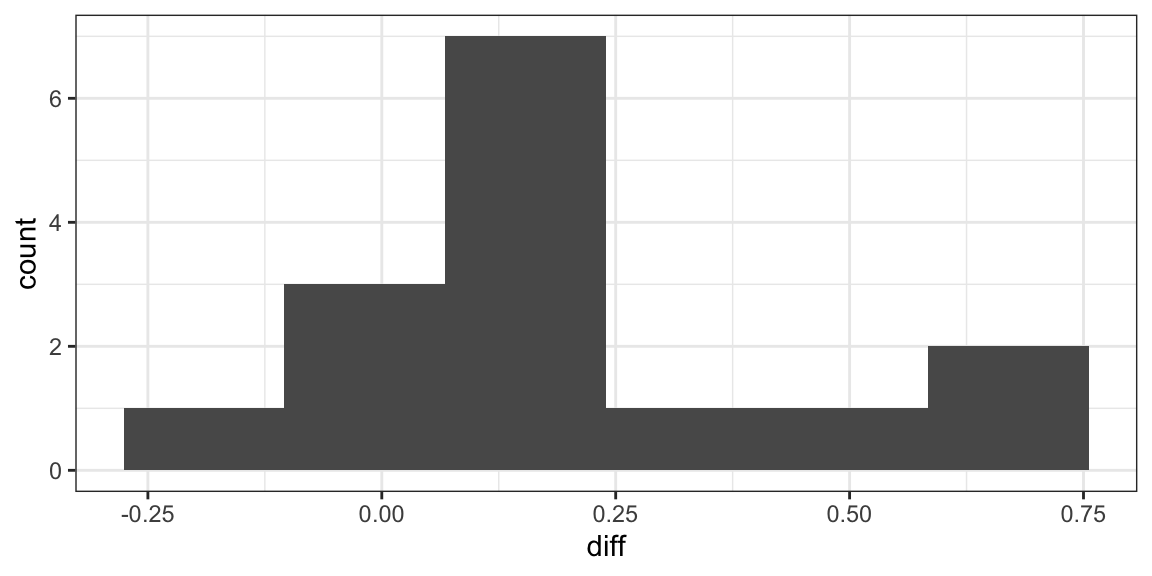
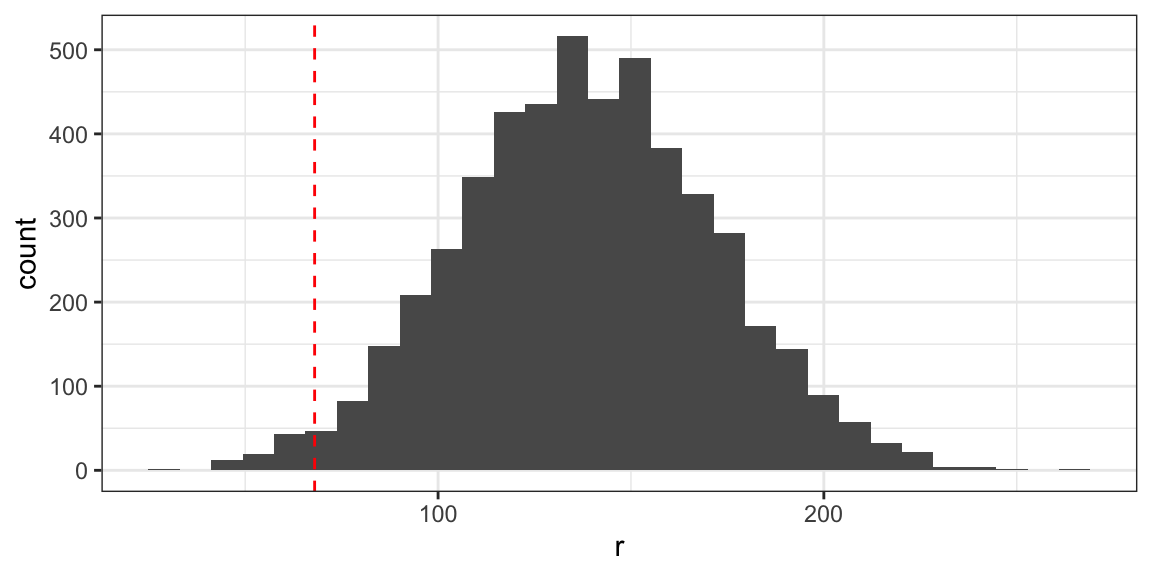
finish ch 4

diff --git a/docs/06_ch4/06_ch4.html b/docs/06_ch4/06_ch4.html
@@ -7,7 +7,7 @@
 <meta name="viewport" content="width=device-width, initial-scale=1.0, user-scalable=yes">
 
 <meta name="author" content="David Gerard">
-<meta name="dcterms.date" content="2026-07-08">
+<meta name="dcterms.date" content="2026-07-09">
 
 <title>Non-parametric Alternatives to t-tools – Stat 302: Intermediate Statistics</title>
 <style>
@@ -217,6 +217,7 @@ window.Quarto = {
   <ul class="collapse">
   <li><a href="#case-study-1" id="toc-case-study-1" class="nav-link" data-scroll-target="#case-study-1">Case Study</a></li>
   <li><a href="#main-idea-1" id="toc-main-idea-1" class="nav-link" data-scroll-target="#main-idea-1">Main idea:</a></li>
+  <li><a href="#permutation-distribution" id="toc-permutation-distribution" class="nav-link" data-scroll-target="#permutation-distribution">Permutation Distribution</a></li>
   <li><a href="#wilcoxon-signed-rank-test-in-r" id="toc-wilcoxon-signed-rank-test-in-r" class="nav-link" data-scroll-target="#wilcoxon-signed-rank-test-in-r">Wilcoxon signed-rank test in R</a></li>
   <li><a href="#when-symmetry-is-violated" id="toc-when-symmetry-is-violated" class="nav-link" data-scroll-target="#when-symmetry-is-violated">When symmetry is violated</a></li>
   <li><a href="#sign-test" id="toc-sign-test" class="nav-link" data-scroll-target="#sign-test">Sign test</a></li>
@@ -246,7 +247,7 @@ window.Quarto = {
     <div>
     <div class="quarto-title-meta-heading">Published</div>
     <div class="quarto-title-meta-contents">
-      <p class="date">July 8, 2026</p>
+      <p class="date">July 9, 2026</p>
     </div>
   </div>
   
@@ -339,7 +340,10 @@ $ Censored  &lt;dbl&gt; 0, 0, 0, 0, 0, 0, 0, 0, 0, 0, 0, 0, 0, 0, 0, 0, 0, 0, 0,
 <ul>
 <li>Use when normality is violated</li>
 <li>Can use on Ordinal Data</li>
-<li>Can use with censored data, when the censored values can all be designated as “last place” (as in the learning case study).</li>
+<li>Can use with censored data, when the censored values can all be designated as “last place” (as in the learning case study).
+<ul>
+<li>For more complicated censoring, need more complicated methods.</li>
+</ul></li>
 </ul></li>
 <li><p><strong>Ordinal Data</strong>: Data where the order is known, but numeric values don’t have any inherent meaning.</p>
 <ul>
@@ -642,7 +646,8 @@ Z = \frac{40.5 - 35}{\sqrt{43.84}} = 0.83
 <section id="exact-approach" class="level2">
 <h2 class="anchored" data-anchor-id="exact-approach">Exact Approach</h2>
 <ul>
-<li><p>If <span class="math inline">\(n\)</span> is small, or there are very many ties, then an exact approach is possible by using the randomization distribution as the null distribution.</p>
+<li><p>If <span class="math inline">\(n\)</span> is small, or there are very many ties, then you shouldn’t use the normal approximation.</p></li>
+<li><p>An exact approach is possible by using the randomization distribution as the null distribution.</p>
 <ul>
 <li>Just like in Chapter 2.</li>
 </ul></li>
@@ -656,20 +661,15 @@ Z = \frac{40.5 - 35}{\sqrt{43.84}} = 0.83
 <li><p>Here is one iteration of generating the randomization distribution</p>
 <div class="cell" data-layout-align="center">
 <div class="code-copy-outer-scaffold"><div class="sourceCode cell-code" id="cb21"><pre class="sourceCode r code-with-copy"><code class="sourceCode r"><span id="cb21-1"><a href="#cb21-1" aria-hidden="true" tabindex="-1"></a>graph <span class="sc">|&gt;</span></span>
-<span id="cb21-2"><a href="#cb21-2" aria-hidden="true" tabindex="-1"></a>  <span class="fu">mutate</span>(<span class="at">shuffled_treatment =</span> <span class="fu">sample</span>(Treatment)) <span class="ot">-&gt;</span></span>
-<span id="cb21-3"><a href="#cb21-3" aria-hidden="true" tabindex="-1"></a>  graph</span>
-<span id="cb21-4"><a href="#cb21-4" aria-hidden="true" tabindex="-1"></a><span class="fu">glimpse</span>(graph)</span></code></pre></div><button title="Copy to Clipboard" class="code-copy-button"><i class="bi"></i></button></div>
+<span id="cb21-2"><a href="#cb21-2" aria-hidden="true" tabindex="-1"></a>  <span class="fu">mutate</span>(<span class="at">shuffled_treatment =</span> <span class="fu">sample</span>(Treatment)) <span class="sc">|&gt;</span> <span class="co"># Shuffle labels</span></span>
+<span id="cb21-3"><a href="#cb21-3" aria-hidden="true" tabindex="-1"></a>  <span class="fu">mutate</span>(<span class="at">rank =</span> <span class="fu">rank</span>(Time)) <span class="sc">|&gt;</span> <span class="co"># Rank all values</span></span>
+<span id="cb21-4"><a href="#cb21-4" aria-hidden="true" tabindex="-1"></a>  <span class="fu">filter</span>(shuffled_treatment <span class="sc">==</span> <span class="st">"Modified"</span>) <span class="sc">|&gt;</span> <span class="co"># Get just shuffled modified observations</span></span>
+<span id="cb21-5"><a href="#cb21-5" aria-hidden="true" tabindex="-1"></a>  <span class="fu">summarize</span>(<span class="at">R =</span> <span class="fu">sum</span>(rank)) <span class="co"># Sum the ranks</span></span></code></pre></div><button title="Copy to Clipboard" class="code-copy-button"><i class="bi"></i></button></div>
 <div class="cell-output cell-output-stdout">
-<pre><code>Rows: 28
-Columns: 4
-$ Time               &lt;dbl&gt; 68, 70, 73, 75, 77, 80, 80, 132, 148, 155, 183, 197…
-$ Treatment          &lt;chr&gt; "Modified", "Modified", "Modified", "Modified", "Mo…
-$ Censored           &lt;dbl&gt; 0, 0, 0, 0, 0, 0, 0, 0, 0, 0, 0, 0, 0, 0, 0, 0, 0, …
-$ shuffled_treatment &lt;chr&gt; "Modified", "Modified", "Conventional", "Modified",…</code></pre>
-</div>
-<div class="code-copy-outer-scaffold"><div class="sourceCode cell-code" id="cb23"><pre class="sourceCode r code-with-copy"><code class="sourceCode r"><span id="cb23-1"><a href="#cb23-1" aria-hidden="true" tabindex="-1"></a><span class="fu">sum</span>(<span class="fu">rank</span>(graph<span class="sc">$</span>Time)[graph<span class="sc">$</span>shuffled_treatment <span class="sc">==</span> <span class="st">"Modified"</span>])</span></code></pre></div><button title="Copy to Clipboard" class="code-copy-button"><i class="bi"></i></button></div>
-<div class="cell-output cell-output-stdout">
-<pre><code>[1] 196.5</code></pre>
+<pre><code># A tibble: 1 × 1
+      R
+  &lt;dbl&gt;
+1  196.</code></pre>
 </div>
 </div></li>
 <li><p>We can do this many times to get this randomization distribution</p>
@@ -684,8 +684,8 @@ $ shuffled_treatment &lt;chr&gt; "Modified", "Modified", "Conventional", "Modifi
 </div></li>
 <li><p>The default in R is to use an exact approach for small sample sizes, but you can always force it to be exact.</p>
 <div class="cell" data-layout-align="center">
-<div class="code-copy-outer-scaffold"><div class="sourceCode cell-code" id="cb25"><pre class="sourceCode r code-with-copy"><code class="sourceCode r"><span id="cb25-1"><a href="#cb25-1" aria-hidden="true" tabindex="-1"></a><span class="fu">wilcox.test</span>(Time <span class="sc">~</span> Treatment, <span class="at">data =</span> graph, <span class="at">exact =</span> <span class="cn">TRUE</span>) <span class="sc">|&gt;</span></span>
-<span id="cb25-2"><a href="#cb25-2" aria-hidden="true" tabindex="-1"></a>  <span class="fu">tidy</span>()</span></code></pre></div><button title="Copy to Clipboard" class="code-copy-button"><i class="bi"></i></button></div>
+<div class="code-copy-outer-scaffold"><div class="sourceCode cell-code" id="cb23"><pre class="sourceCode r code-with-copy"><code class="sourceCode r"><span id="cb23-1"><a href="#cb23-1" aria-hidden="true" tabindex="-1"></a><span class="fu">wilcox.test</span>(Time <span class="sc">~</span> Treatment, <span class="at">data =</span> graph, <span class="at">exact =</span> <span class="cn">TRUE</span>) <span class="sc">|&gt;</span></span>
+<span id="cb23-2"><a href="#cb23-2" aria-hidden="true" tabindex="-1"></a>  <span class="fu">tidy</span>()</span></code></pre></div><button title="Copy to Clipboard" class="code-copy-button"><i class="bi"></i></button></div>
 <div class="cell-output cell-output-stdout">
 <pre><code># A tibble: 1 × 4
   statistic p.value method                       alternative
@@ -751,8 +751,8 @@ $ shuffled_treatment &lt;chr&gt; "Modified", "Modified", "Conventional", "Modifi
 </ul></li>
 <li><p>R can do this automatically.</p>
 <div class="cell" data-layout-align="center">
-<div class="code-copy-outer-scaffold"><div class="sourceCode cell-code" id="cb27"><pre class="sourceCode r code-with-copy"><code class="sourceCode r"><span id="cb27-1"><a href="#cb27-1" aria-hidden="true" tabindex="-1"></a><span class="fu">wilcox.test</span>(Time <span class="sc">~</span> Treatment, <span class="at">data =</span> graph, <span class="at">exact =</span> <span class="cn">TRUE</span>, <span class="at">conf.int =</span> <span class="cn">TRUE</span>) <span class="sc">|&gt;</span></span>
-<span id="cb27-2"><a href="#cb27-2" aria-hidden="true" tabindex="-1"></a>  <span class="fu">tidy</span>()</span></code></pre></div><button title="Copy to Clipboard" class="code-copy-button"><i class="bi"></i></button></div>
+<div class="code-copy-outer-scaffold"><div class="sourceCode cell-code" id="cb25"><pre class="sourceCode r code-with-copy"><code class="sourceCode r"><span id="cb25-1"><a href="#cb25-1" aria-hidden="true" tabindex="-1"></a><span class="fu">wilcox.test</span>(Time <span class="sc">~</span> Treatment, <span class="at">data =</span> graph, <span class="at">exact =</span> <span class="cn">TRUE</span>, <span class="at">conf.int =</span> <span class="cn">TRUE</span>) <span class="sc">|&gt;</span></span>
+<span id="cb25-2"><a href="#cb25-2" aria-hidden="true" tabindex="-1"></a>  <span class="fu">tidy</span>()</span></code></pre></div><button title="Copy to Clipboard" class="code-copy-button"><i class="bi"></i></button></div>
 <div class="cell-output cell-output-stdout">
 <pre><code># A tibble: 1 × 7
   estimate statistic p.value conf.low conf.high method               alternative
@@ -776,44 +776,44 @@ $ shuffled_treatment &lt;chr&gt; "Modified", "Modified", "Conventional", "Modifi
 <li><p>Outcome measured: duration of middle-ear effusion after the first otitis media episode.</p></li>
 <li><p>The data, from Table 9.11 of Rosner’s <em>Fundamentals of Biostatistics (Eighth Edition)</em>, can be read into R with</p>
 <div class="cell" data-layout-align="center">
-<div class="code-copy-outer-scaffold"><div class="sourceCode cell-code" id="cb29"><pre class="sourceCode r code-with-copy"><code class="sourceCode r"><span id="cb29-1"><a href="#cb29-1" aria-hidden="true" tabindex="-1"></a>effusion <span class="ot">&lt;-</span> <span class="fu">tribble</span>(</span>
-<span id="cb29-2"><a href="#cb29-2" aria-hidden="true" tabindex="-1"></a>  <span class="sc">~</span>pair, <span class="sc">~</span>breastfed, <span class="sc">~</span>bottle_fed,</span>
-<span id="cb29-3"><a href="#cb29-3" aria-hidden="true" tabindex="-1"></a>  <span class="dv">1</span>, <span class="dv">20</span>, <span class="dv">18</span>,</span>
-<span id="cb29-4"><a href="#cb29-4" aria-hidden="true" tabindex="-1"></a>  <span class="dv">2</span>, <span class="dv">11</span>, <span class="dv">35</span>,</span>
-<span id="cb29-5"><a href="#cb29-5" aria-hidden="true" tabindex="-1"></a>  <span class="dv">3</span>, <span class="dv">3</span>, <span class="dv">7</span>,</span>
-<span id="cb29-6"><a href="#cb29-6" aria-hidden="true" tabindex="-1"></a>  <span class="dv">4</span>, <span class="dv">24</span>, <span class="dv">182</span>,</span>
-<span id="cb29-7"><a href="#cb29-7" aria-hidden="true" tabindex="-1"></a>  <span class="dv">5</span>, <span class="dv">7</span>, <span class="dv">6</span>,</span>
-<span id="cb29-8"><a href="#cb29-8" aria-hidden="true" tabindex="-1"></a>  <span class="dv">6</span>, <span class="dv">28</span>, <span class="dv">33</span>,</span>
-<span id="cb29-9"><a href="#cb29-9" aria-hidden="true" tabindex="-1"></a>  <span class="dv">7</span>, <span class="dv">58</span>, <span class="dv">223</span>,</span>
-<span id="cb29-10"><a href="#cb29-10" aria-hidden="true" tabindex="-1"></a>  <span class="dv">8</span>, <span class="dv">7</span>, <span class="dv">7</span>,</span>
-<span id="cb29-11"><a href="#cb29-11" aria-hidden="true" tabindex="-1"></a>  <span class="dv">9</span>, <span class="dv">39</span>, <span class="dv">57</span>,</span>
-<span id="cb29-12"><a href="#cb29-12" aria-hidden="true" tabindex="-1"></a>  <span class="dv">10</span>, <span class="dv">17</span>, <span class="dv">76</span>,</span>
-<span id="cb29-13"><a href="#cb29-13" aria-hidden="true" tabindex="-1"></a>  <span class="dv">11</span>, <span class="dv">17</span>, <span class="dv">186</span>,</span>
-<span id="cb29-14"><a href="#cb29-14" aria-hidden="true" tabindex="-1"></a>  <span class="dv">12</span>, <span class="dv">12</span>, <span class="dv">29</span>,</span>
-<span id="cb29-15"><a href="#cb29-15" aria-hidden="true" tabindex="-1"></a>  <span class="dv">13</span>, <span class="dv">52</span>, <span class="dv">39</span>,</span>
-<span id="cb29-16"><a href="#cb29-16" aria-hidden="true" tabindex="-1"></a>  <span class="dv">14</span>, <span class="dv">14</span>, <span class="dv">15</span>,</span>
-<span id="cb29-17"><a href="#cb29-17" aria-hidden="true" tabindex="-1"></a>  <span class="dv">15</span>, <span class="dv">12</span>, <span class="dv">21</span>,</span>
-<span id="cb29-18"><a href="#cb29-18" aria-hidden="true" tabindex="-1"></a>  <span class="dv">16</span>, <span class="dv">30</span>, <span class="dv">28</span>,</span>
-<span id="cb29-19"><a href="#cb29-19" aria-hidden="true" tabindex="-1"></a>  <span class="dv">17</span>, <span class="dv">7</span>, <span class="dv">8</span>,</span>
-<span id="cb29-20"><a href="#cb29-20" aria-hidden="true" tabindex="-1"></a>  <span class="dv">18</span>, <span class="dv">15</span>, <span class="dv">27</span>,</span>
-<span id="cb29-21"><a href="#cb29-21" aria-hidden="true" tabindex="-1"></a>  <span class="dv">19</span>, <span class="dv">65</span>, <span class="dv">77</span>,</span>
-<span id="cb29-22"><a href="#cb29-22" aria-hidden="true" tabindex="-1"></a>  <span class="dv">20</span>, <span class="dv">10</span>, <span class="dv">12</span>,</span>
-<span id="cb29-23"><a href="#cb29-23" aria-hidden="true" tabindex="-1"></a>  <span class="dv">21</span>, <span class="dv">7</span>, <span class="dv">8</span>,</span>
-<span id="cb29-24"><a href="#cb29-24" aria-hidden="true" tabindex="-1"></a>  <span class="dv">22</span>, <span class="dv">19</span>, <span class="dv">16</span>,</span>
-<span id="cb29-25"><a href="#cb29-25" aria-hidden="true" tabindex="-1"></a>  <span class="dv">23</span>, <span class="dv">34</span>, <span class="dv">28</span>,</span>
-<span id="cb29-26"><a href="#cb29-26" aria-hidden="true" tabindex="-1"></a>  <span class="dv">24</span>, <span class="dv">25</span>, <span class="dv">20</span></span>
-<span id="cb29-27"><a href="#cb29-27" aria-hidden="true" tabindex="-1"></a>)</span></code></pre></div><button title="Copy to Clipboard" class="code-copy-button"><i class="bi"></i></button></div>
+<div class="code-copy-outer-scaffold"><div class="sourceCode cell-code" id="cb27"><pre class="sourceCode r code-with-copy"><code class="sourceCode r"><span id="cb27-1"><a href="#cb27-1" aria-hidden="true" tabindex="-1"></a>effusion <span class="ot">&lt;-</span> <span class="fu">tribble</span>(</span>
+<span id="cb27-2"><a href="#cb27-2" aria-hidden="true" tabindex="-1"></a>  <span class="sc">~</span>pair, <span class="sc">~</span>breastfed, <span class="sc">~</span>bottle_fed,</span>
+<span id="cb27-3"><a href="#cb27-3" aria-hidden="true" tabindex="-1"></a>  <span class="dv">1</span>, <span class="dv">20</span>, <span class="dv">18</span>,</span>
+<span id="cb27-4"><a href="#cb27-4" aria-hidden="true" tabindex="-1"></a>  <span class="dv">2</span>, <span class="dv">11</span>, <span class="dv">35</span>,</span>
+<span id="cb27-5"><a href="#cb27-5" aria-hidden="true" tabindex="-1"></a>  <span class="dv">3</span>, <span class="dv">3</span>, <span class="dv">7</span>,</span>
+<span id="cb27-6"><a href="#cb27-6" aria-hidden="true" tabindex="-1"></a>  <span class="dv">4</span>, <span class="dv">24</span>, <span class="dv">182</span>,</span>
+<span id="cb27-7"><a href="#cb27-7" aria-hidden="true" tabindex="-1"></a>  <span class="dv">5</span>, <span class="dv">7</span>, <span class="dv">6</span>,</span>
+<span id="cb27-8"><a href="#cb27-8" aria-hidden="true" tabindex="-1"></a>  <span class="dv">6</span>, <span class="dv">28</span>, <span class="dv">33</span>,</span>
+<span id="cb27-9"><a href="#cb27-9" aria-hidden="true" tabindex="-1"></a>  <span class="dv">7</span>, <span class="dv">58</span>, <span class="dv">223</span>,</span>
+<span id="cb27-10"><a href="#cb27-10" aria-hidden="true" tabindex="-1"></a>  <span class="dv">8</span>, <span class="dv">7</span>, <span class="dv">7</span>,</span>
+<span id="cb27-11"><a href="#cb27-11" aria-hidden="true" tabindex="-1"></a>  <span class="dv">9</span>, <span class="dv">39</span>, <span class="dv">57</span>,</span>
+<span id="cb27-12"><a href="#cb27-12" aria-hidden="true" tabindex="-1"></a>  <span class="dv">10</span>, <span class="dv">17</span>, <span class="dv">76</span>,</span>
+<span id="cb27-13"><a href="#cb27-13" aria-hidden="true" tabindex="-1"></a>  <span class="dv">11</span>, <span class="dv">17</span>, <span class="dv">186</span>,</span>
+<span id="cb27-14"><a href="#cb27-14" aria-hidden="true" tabindex="-1"></a>  <span class="dv">12</span>, <span class="dv">12</span>, <span class="dv">29</span>,</span>
+<span id="cb27-15"><a href="#cb27-15" aria-hidden="true" tabindex="-1"></a>  <span class="dv">13</span>, <span class="dv">52</span>, <span class="dv">39</span>,</span>
+<span id="cb27-16"><a href="#cb27-16" aria-hidden="true" tabindex="-1"></a>  <span class="dv">14</span>, <span class="dv">14</span>, <span class="dv">15</span>,</span>
+<span id="cb27-17"><a href="#cb27-17" aria-hidden="true" tabindex="-1"></a>  <span class="dv">15</span>, <span class="dv">12</span>, <span class="dv">21</span>,</span>
+<span id="cb27-18"><a href="#cb27-18" aria-hidden="true" tabindex="-1"></a>  <span class="dv">16</span>, <span class="dv">30</span>, <span class="dv">28</span>,</span>
+<span id="cb27-19"><a href="#cb27-19" aria-hidden="true" tabindex="-1"></a>  <span class="dv">17</span>, <span class="dv">7</span>, <span class="dv">8</span>,</span>
+<span id="cb27-20"><a href="#cb27-20" aria-hidden="true" tabindex="-1"></a>  <span class="dv">18</span>, <span class="dv">15</span>, <span class="dv">27</span>,</span>
+<span id="cb27-21"><a href="#cb27-21" aria-hidden="true" tabindex="-1"></a>  <span class="dv">19</span>, <span class="dv">65</span>, <span class="dv">77</span>,</span>
+<span id="cb27-22"><a href="#cb27-22" aria-hidden="true" tabindex="-1"></a>  <span class="dv">20</span>, <span class="dv">10</span>, <span class="dv">12</span>,</span>
+<span id="cb27-23"><a href="#cb27-23" aria-hidden="true" tabindex="-1"></a>  <span class="dv">21</span>, <span class="dv">7</span>, <span class="dv">8</span>,</span>
+<span id="cb27-24"><a href="#cb27-24" aria-hidden="true" tabindex="-1"></a>  <span class="dv">22</span>, <span class="dv">19</span>, <span class="dv">16</span>,</span>
+<span id="cb27-25"><a href="#cb27-25" aria-hidden="true" tabindex="-1"></a>  <span class="dv">23</span>, <span class="dv">34</span>, <span class="dv">28</span>,</span>
+<span id="cb27-26"><a href="#cb27-26" aria-hidden="true" tabindex="-1"></a>  <span class="dv">24</span>, <span class="dv">25</span>, <span class="dv">20</span></span>
+<span id="cb27-27"><a href="#cb27-27" aria-hidden="true" tabindex="-1"></a>)</span></code></pre></div><button title="Copy to Clipboard" class="code-copy-button"><i class="bi"></i></button></div>
 </div></li>
 <li><p>We first calculate the differences</p>
 <div class="cell" data-layout-align="center">
-<div class="code-copy-outer-scaffold"><div class="sourceCode cell-code" id="cb30"><pre class="sourceCode r code-with-copy"><code class="sourceCode r"><span id="cb30-1"><a href="#cb30-1" aria-hidden="true" tabindex="-1"></a>effusion <span class="sc">|&gt;</span></span>
-<span id="cb30-2"><a href="#cb30-2" aria-hidden="true" tabindex="-1"></a>  <span class="fu">mutate</span>(<span class="at">diff =</span> bottle_fed <span class="sc">-</span> breastfed) <span class="ot">-&gt;</span></span>
-<span id="cb30-3"><a href="#cb30-3" aria-hidden="true" tabindex="-1"></a>  effusion</span></code></pre></div><button title="Copy to Clipboard" class="code-copy-button"><i class="bi"></i></button></div>
+<div class="code-copy-outer-scaffold"><div class="sourceCode cell-code" id="cb28"><pre class="sourceCode r code-with-copy"><code class="sourceCode r"><span id="cb28-1"><a href="#cb28-1" aria-hidden="true" tabindex="-1"></a>effusion <span class="sc">|&gt;</span></span>
+<span id="cb28-2"><a href="#cb28-2" aria-hidden="true" tabindex="-1"></a>  <span class="fu">mutate</span>(<span class="at">diff =</span> bottle_fed <span class="sc">-</span> breastfed) <span class="ot">-&gt;</span></span>
+<span id="cb28-3"><a href="#cb28-3" aria-hidden="true" tabindex="-1"></a>  effusion</span></code></pre></div><button title="Copy to Clipboard" class="code-copy-button"><i class="bi"></i></button></div>
 </div></li>
 <li><p>Plotting the differences, it looks like there are some extreme outliers. There appear to be three bottle-fed babies that had a very long duration of middle-ear effusion.</p>
 <div class="cell" data-layout-align="center">
-<div class="code-copy-outer-scaffold"><div class="sourceCode cell-code" id="cb31"><pre class="sourceCode r code-with-copy"><code class="sourceCode r"><span id="cb31-1"><a href="#cb31-1" aria-hidden="true" tabindex="-1"></a><span class="fu">ggplot</span>(effusion, <span class="fu">aes</span>(<span class="at">x =</span> diff)) <span class="sc">+</span></span>
-<span id="cb31-2"><a href="#cb31-2" aria-hidden="true" tabindex="-1"></a>  <span class="fu">geom_histogram</span>(<span class="at">bins =</span> <span class="dv">30</span>, <span class="at">color =</span> <span class="st">"black"</span>, <span class="at">fill =</span> <span class="st">"white"</span>)</span></code></pre></div><button title="Copy to Clipboard" class="code-copy-button"><i class="bi"></i></button></div>
+<div class="code-copy-outer-scaffold"><div class="sourceCode cell-code" id="cb29"><pre class="sourceCode r code-with-copy"><code class="sourceCode r"><span id="cb29-1"><a href="#cb29-1" aria-hidden="true" tabindex="-1"></a><span class="fu">ggplot</span>(effusion, <span class="fu">aes</span>(<span class="at">x =</span> diff)) <span class="sc">+</span></span>
+<span id="cb29-2"><a href="#cb29-2" aria-hidden="true" tabindex="-1"></a>  <span class="fu">geom_histogram</span>(<span class="at">bins =</span> <span class="dv">30</span>, <span class="at">color =</span> <span class="st">"black"</span>, <span class="at">fill =</span> <span class="st">"white"</span>)</span></code></pre></div><button title="Copy to Clipboard" class="code-copy-button"><i class="bi"></i></button></div>
 <div class="cell-output-display">
 <div class="quarto-figure quarto-figure-center">
 <figure class="figure">
@@ -824,10 +824,10 @@ $ shuffled_treatment &lt;chr&gt; "Modified", "Modified", "Conventional", "Modifi
 </div></li>
 <li><p>One solution would be to do inference on the log-ratio. This handles the outliers, but the data still appear somewhat skewed:</p>
 <div class="cell" data-layout-align="center">
-<div class="code-copy-outer-scaffold"><div class="sourceCode cell-code" id="cb32"><pre class="sourceCode r code-with-copy"><code class="sourceCode r"><span id="cb32-1"><a href="#cb32-1" aria-hidden="true" tabindex="-1"></a>effusion <span class="sc">|&gt;</span></span>
-<span id="cb32-2"><a href="#cb32-2" aria-hidden="true" tabindex="-1"></a>  <span class="fu">mutate</span>(<span class="at">log_rat =</span> <span class="fu">log</span>(bottle_fed) <span class="sc">-</span> <span class="fu">log</span>(breastfed)) <span class="sc">|&gt;</span></span>
-<span id="cb32-3"><a href="#cb32-3" aria-hidden="true" tabindex="-1"></a>  <span class="fu">ggplot</span>(<span class="fu">aes</span>(<span class="at">x =</span> log_rat)) <span class="sc">+</span></span>
-<span id="cb32-4"><a href="#cb32-4" aria-hidden="true" tabindex="-1"></a>  <span class="fu">geom_histogram</span>(<span class="at">bins =</span> <span class="dv">8</span>)</span></code></pre></div><button title="Copy to Clipboard" class="code-copy-button"><i class="bi"></i></button></div>
+<div class="code-copy-outer-scaffold"><div class="sourceCode cell-code" id="cb30"><pre class="sourceCode r code-with-copy"><code class="sourceCode r"><span id="cb30-1"><a href="#cb30-1" aria-hidden="true" tabindex="-1"></a>effusion <span class="sc">|&gt;</span></span>
+<span id="cb30-2"><a href="#cb30-2" aria-hidden="true" tabindex="-1"></a>  <span class="fu">mutate</span>(<span class="at">log_rat =</span> <span class="fu">log</span>(bottle_fed) <span class="sc">-</span> <span class="fu">log</span>(breastfed)) <span class="sc">|&gt;</span></span>
+<span id="cb30-3"><a href="#cb30-3" aria-hidden="true" tabindex="-1"></a>  <span class="fu">ggplot</span>(<span class="fu">aes</span>(<span class="at">x =</span> log_rat)) <span class="sc">+</span></span>
+<span id="cb30-4"><a href="#cb30-4" aria-hidden="true" tabindex="-1"></a>  <span class="fu">geom_histogram</span>(<span class="at">bins =</span> <span class="dv">8</span>)</span></code></pre></div><button title="Copy to Clipboard" class="code-copy-button"><i class="bi"></i></button></div>
 <div class="cell-output-display">
 <div class="quarto-figure quarto-figure-center">
 <figure class="figure">
@@ -876,7 +876,7 @@ Z = \frac{R - \mu_R}{\sigma_R} \sim N(0,1)
 </div>
 </div>
 </div>
-<div class="code-copy-outer-scaffold"><div class="sourceCode" id="cb33"><pre class="sourceCode r code-with-copy"><code class="sourceCode r"><span id="cb33-1"><a href="#cb33-1" aria-hidden="true" tabindex="-1"></a><span class="dv">2</span> <span class="sc">*</span> <span class="fu">pnorm</span>(<span class="sc">-</span><span class="fu">abs</span>(z))</span></code></pre></div><button title="Copy to Clipboard" class="code-copy-button"><i class="bi"></i></button></div></li>
+<div class="code-copy-outer-scaffold"><div class="sourceCode" id="cb31"><pre class="sourceCode r code-with-copy"><code class="sourceCode r"><span id="cb31-1"><a href="#cb31-1" aria-hidden="true" tabindex="-1"></a><span class="dv">2</span> <span class="sc">*</span> <span class="fu">pnorm</span>(<span class="sc">-</span><span class="fu">abs</span>(z))</span></code></pre></div><button title="Copy to Clipboard" class="code-copy-button"><i class="bi"></i></button></div></li>
 </ul>
 <div class="tabset-margin-container"></div><div class="panel-tabset">
 <ul class="nav nav-tabs" role="tablist"><li class="nav-item" role="presentation"><a class="nav-link active" id="tabset-5-1-tab" data-bs-toggle="tab" data-bs-target="#tabset-5-1" role="tab" aria-controls="tabset-5-1" aria-selected="true" href="">Exercise</a></li><li class="nav-item" role="presentation"><a class="nav-link" id="tabset-5-2-tab" data-bs-toggle="tab" data-bs-target="#tabset-5-2" role="tab" aria-controls="tabset-5-2" aria-selected="false" href="">Solution</a></li></ul>
@@ -884,8 +884,8 @@ Z = \frac{R - \mu_R}{\sigma_R} \sim N(0,1)
 <div id="tabset-5-1" class="tab-pane active" role="tabpanel" aria-labelledby="tabset-5-1-tab">
 <p>Consider the twin study from Case 0202:</p>
 <div class="cell" data-layout-align="center">
-<div class="code-copy-outer-scaffold"><div class="sourceCode cell-code" id="cb34"><pre class="sourceCode r code-with-copy"><code class="sourceCode r"><span id="cb34-1"><a href="#cb34-1" aria-hidden="true" tabindex="-1"></a>twins <span class="ot">&lt;-</span> <span class="fu">read_csv</span>(<span class="st">"https://dcgerard.github.io/stat_302/data/case0202.csv"</span>) <span class="sc">|&gt;</span></span>
-<span id="cb34-2"><a href="#cb34-2" aria-hidden="true" tabindex="-1"></a>  <span class="fu">mutate</span>(<span class="at">diff =</span> Unaffected <span class="sc">-</span> Affected)</span></code></pre></div><button title="Copy to Clipboard" class="code-copy-button"><i class="bi"></i></button></div>
+<div class="code-copy-outer-scaffold"><div class="sourceCode cell-code" id="cb32"><pre class="sourceCode r code-with-copy"><code class="sourceCode r"><span id="cb32-1"><a href="#cb32-1" aria-hidden="true" tabindex="-1"></a>twins <span class="ot">&lt;-</span> <span class="fu">read_csv</span>(<span class="st">"https://dcgerard.github.io/stat_302/data/case0202.csv"</span>) <span class="sc">|&gt;</span></span>
+<span id="cb32-2"><a href="#cb32-2" aria-hidden="true" tabindex="-1"></a>  <span class="fu">mutate</span>(<span class="at">diff =</span> Unaffected <span class="sc">-</span> Affected)</span></code></pre></div><button title="Copy to Clipboard" class="code-copy-button"><i class="bi"></i></button></div>
 </div>
 <div class="cell" data-layout-align="center">
 <div class="cell-output-display">
@@ -1997,6 +1997,47 @@ Z = \frac{R - \mu_R}{\sigma_R} \sim N(0,1)
 </div>
 </div>
 </section>
+<section id="permutation-distribution" class="level2">
+<h2 class="anchored" data-anchor-id="permutation-distribution">Permutation Distribution</h2>
+<ul>
+<li><p>We randomly flip the sign of each difference, independently, each with probability 1/2.</p>
+<ul>
+<li>Note the difference from the rank-sum test: there we permuted the labels (keeping the number in each group fixed). Here, each pair’s sign is flipped independently, so the number of negative signs is <em>not</em> fixed.</li>
+</ul></li>
+<li><p>Intuitively, this is randomly switching which baby in each pair is labeled as “formula fed” and which is labeled as “breastfed”.</p>
+<ul>
+<li>If effusion duration was about the same between the two populations, then within any pair it should not matter which baby we call “breastfed” and which we call “formula fed”.</li>
+<li>So under the null, each difference is equally likely to be positive or negative, and the distribution of the rank statistic should be the same no matter how we flip the signs.</li>
+</ul></li>
+<li><p>This allows us to compare our signed-rank statistic to the permutation distribution and obtain exact inference when the sample size is too small (or there are too many ties) for the normal approximation to work.</p></li>
+<li><p>One iteration of this would be</p>
+<div class="cell" data-layout-align="center">
+<div class="code-copy-outer-scaffold"><div class="sourceCode cell-code" id="cb33"><pre class="sourceCode r code-with-copy"><code class="sourceCode r"><span id="cb33-1"><a href="#cb33-1" aria-hidden="true" tabindex="-1"></a>effusion <span class="sc">|&gt;</span></span>
+<span id="cb33-2"><a href="#cb33-2" aria-hidden="true" tabindex="-1"></a>  <span class="fu">filter</span>(diff <span class="sc">!=</span> <span class="dv">0</span>) <span class="sc">|&gt;</span></span>
+<span id="cb33-3"><a href="#cb33-3" aria-hidden="true" tabindex="-1"></a>  <span class="fu">mutate</span>(<span class="at">magnitude =</span> <span class="fu">abs</span>(diff)) <span class="sc">|&gt;</span> <span class="co"># absolute value of difference</span></span>
+<span id="cb33-4"><a href="#cb33-4" aria-hidden="true" tabindex="-1"></a>  <span class="fu">mutate</span>(<span class="at">rank =</span> <span class="fu">rank</span>(magnitude)) <span class="sc">|&gt;</span> <span class="co"># rank of absolute value</span></span>
+<span id="cb33-5"><a href="#cb33-5" aria-hidden="true" tabindex="-1"></a>  <span class="fu">mutate</span>(<span class="at">sign_flipped =</span> <span class="fu">sample</span>(<span class="fu">c</span>(<span class="st">"Negative"</span>, <span class="st">"Positive"</span>), <span class="at">size =</span> <span class="fu">n</span>(), <span class="at">replace =</span> <span class="cn">TRUE</span>)) <span class="sc">|&gt;</span> <span class="co"># Randomly flip each sign, independently</span></span>
+<span id="cb33-6"><a href="#cb33-6" aria-hidden="true" tabindex="-1"></a>  <span class="fu">filter</span>(sign_flipped <span class="sc">==</span> <span class="st">"Negative"</span>) <span class="sc">|&gt;</span> <span class="co"># Get just the negative flipped signs</span></span>
+<span id="cb33-7"><a href="#cb33-7" aria-hidden="true" tabindex="-1"></a>  <span class="fu">summarize</span>(<span class="at">R =</span> <span class="fu">sum</span>(rank)) <span class="co"># Sum ranks</span></span></code></pre></div><button title="Copy to Clipboard" class="code-copy-button"><i class="bi"></i></button></div>
+<div class="cell-output cell-output-stdout">
+<pre><code># A tibble: 1 × 1
+      R
+  &lt;dbl&gt;
+1   158</code></pre>
+</div>
+</div></li>
+<li><p>Doing this many times to get the randomization distribution</p>
+<div class="cell" data-layout-align="center">
+<div class="cell-output-display">
+<div class="quarto-figure quarto-figure-center">
+<figure class="figure">
+<p><img src="06_ch4_files/figure-html/unnamed-chunk-27-1.png" class="img-fluid quarto-figure quarto-figure-center figure-img" width="576"></p>
+</figure>
+</div>
+</div>
+</div></li>
+</ul>
+</section>
 <section id="wilcoxon-signed-rank-test-in-r" class="level2">
 <h2 class="anchored" data-anchor-id="wilcoxon-signed-rank-test-in-r">Wilcoxon signed-rank test in R</h2>
 <ul>
@@ -2013,6 +2054,27 @@ Z = \frac{R - \mu_R}{\sigma_R} \sim N(0,1)
 </div></li>
 <li><p>Thus, under the assumption of symmetry, we have evidence that breastfed babies typically have shorter mid-ear effusion durations than formula-fed babies (<span class="math inline">\(p\)</span> = 0.018). We estimate the median duration to be 7 days shorter for breastfed babies, with a 95% confidence interval of 1 day shorter to 30 days shorter.</p></li>
 </ul>
+<div class="callout callout-style-default callout-warning callout-titled">
+<div class="callout-header d-flex align-content-center">
+<div class="callout-icon-container">
+<i class="callout-icon"></i>
+</div>
+<div class="callout-title-container flex-fill">
+<span class="screen-reader-only">Warning</span>Unneccesary Detail
+</div>
+</div>
+<div class="callout-body-container callout-body">
+<ul>
+<li><p>In R, they exclude all 0’s from the test when calculating the signed-rank statistic. You should remove the 0’s too.</p>
+<ul>
+<li>E.g., zeros don’t tell us anything about whether breastfed or formula-fed babies have longer effusion durations.</li>
+</ul></li>
+<li><p>In R, they again subtract the minimum possible R value.</p></li>
+<li><p>Above, they calculated the signed-rank statistic for the positive values, not the negative values. This does not change the <span class="math inline">\(p\)</span>-value.</p></li>
+<li><p>The default is to run an exact test. If you use the normal approximation (<code>exact = FALSE</code>), R again uses a continuity correction and fancy math to improve the normal approximation.</p></li>
+</ul>
+</div>
+</div>
 <div class="tabset-margin-container"></div><div class="panel-tabset">
 <ul class="nav nav-tabs" role="tablist"><li class="nav-item" role="presentation"><a class="nav-link active" id="tabset-6-1-tab" data-bs-toggle="tab" data-bs-target="#tabset-6-1" role="tab" aria-controls="tabset-6-1" aria-selected="true" href="">Exercise</a></li><li class="nav-item" role="presentation"><a class="nav-link" id="tabset-6-2-tab" data-bs-toggle="tab" data-bs-target="#tabset-6-2" role="tab" aria-controls="tabset-6-2" aria-selected="false" href="">Solution</a></li></ul>
 <div class="tab-content">
@@ -2027,7 +2089,7 @@ Z = \frac{R - \mu_R}{\sigma_R} \sim N(0,1)
 <div class="cell-output-display">
 <div class="quarto-figure quarto-figure-center">
 <figure class="figure">
-<p><img src="06_ch4_files/figure-html/unnamed-chunk-27-1.png" class="img-fluid quarto-figure quarto-figure-center figure-img" width="576"></p>
+<p><img src="06_ch4_files/figure-html/unnamed-chunk-29-1.png" class="img-fluid quarto-figure quarto-figure-center figure-img" width="576"></p>
 </figure>
 </div>
 </div>
@@ -2069,7 +2131,7 @@ Z = \frac{R - \mu_R}{\sigma_R} \sim N(0,1)
 <span id="cb40-3"><a href="#cb40-3" aria-hidden="true" tabindex="-1"></a>x2 <span class="ot">&lt;-</span> <span class="fu">rexp</span>(n)</span>
 <span id="cb40-4"><a href="#cb40-4" aria-hidden="true" tabindex="-1"></a><span class="fu">median</span>((x1 <span class="sc">+</span> x2) <span class="sc">/</span> <span class="dv">2</span>)</span></code></pre></div><button title="Copy to Clipboard" class="code-copy-button"><i class="bi"></i></button></div>
 <div class="cell-output cell-output-stdout">
-<pre><code>[1] 0.846082</code></pre>
+<pre><code>[1] 0.8455364</code></pre>
 </div>
 </div></li>
 <li><p>Compare this to the theoretical median of the exponential</p>